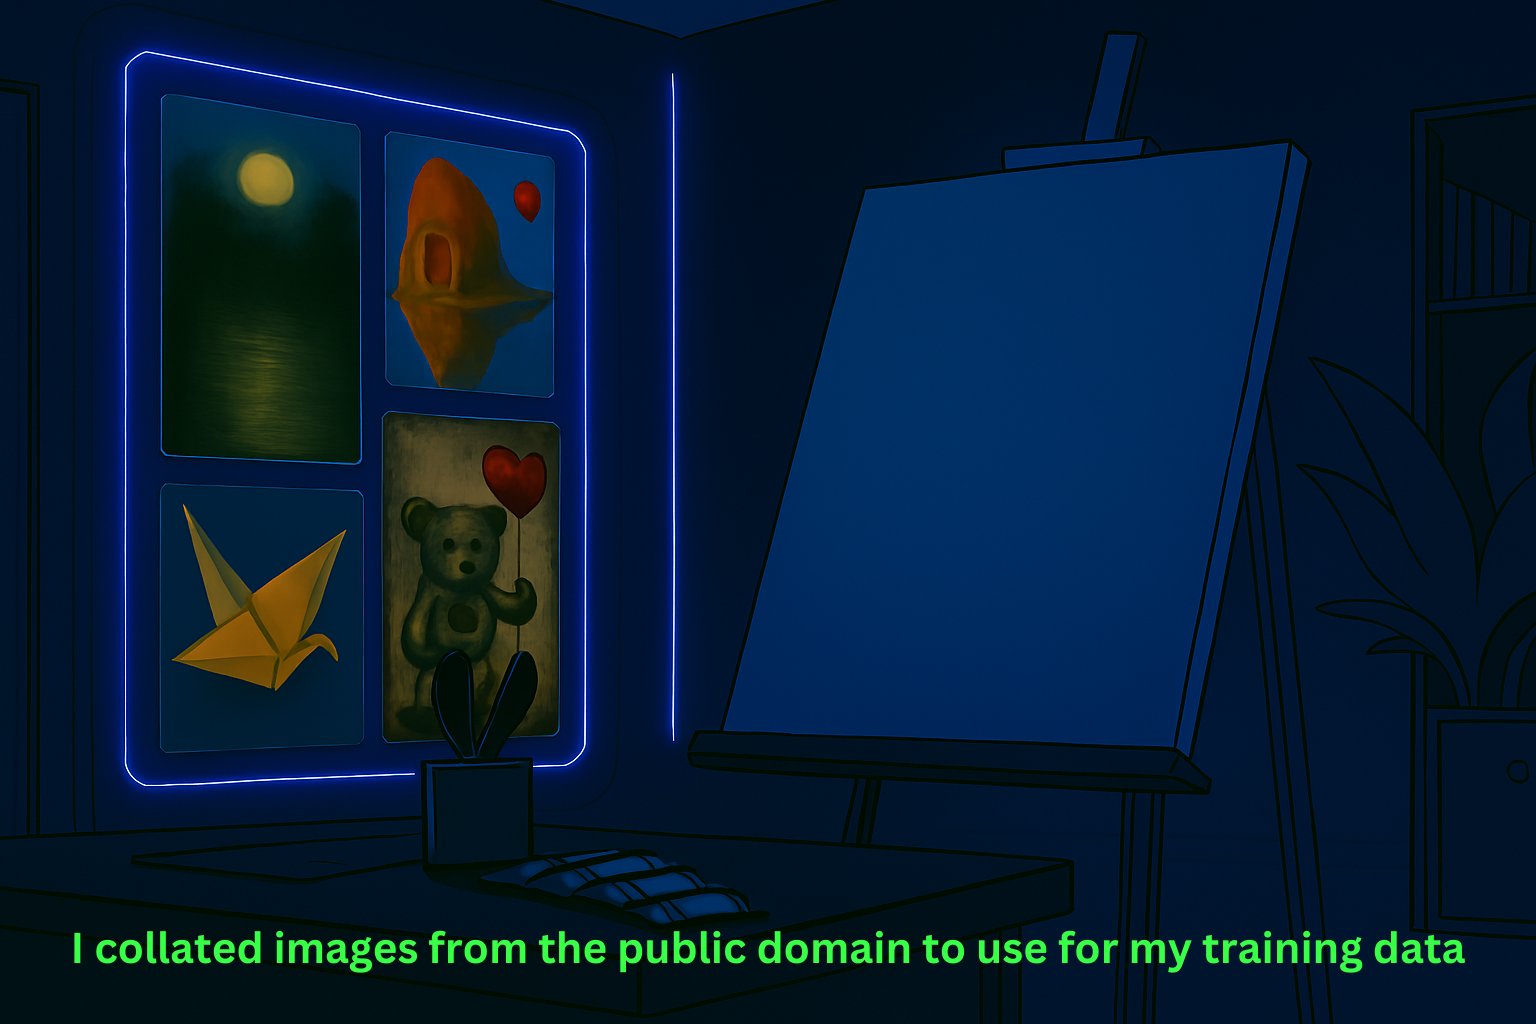
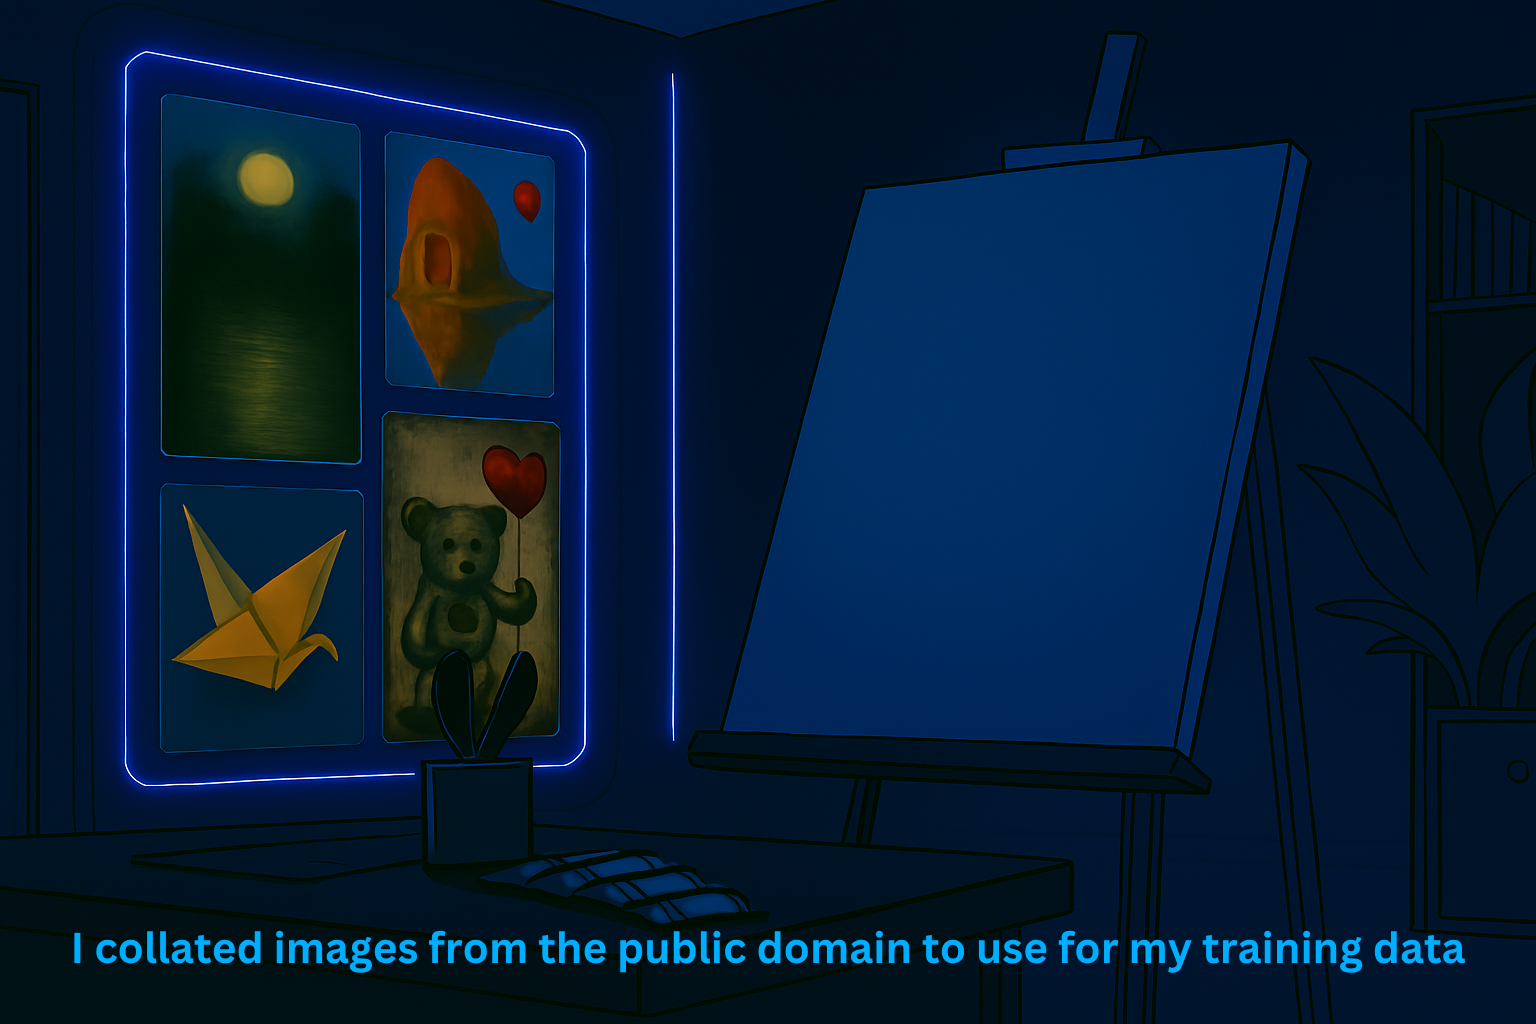
Changed the styles and colours to meet the clients preferrences

Changed region(s): [[0.0312, 0.9062, 0.9688, 0.9688]]

diff --git a/src/main/resources/css/textarea.css b/src/main/resources/css/textarea.css
@@ -2,9 +2,9 @@
   -fx-control-inner-background: black;
   /* background inside the text area */
   -fx-background-color: black;
-  -fx-border-color: #3aff47;
+  -fx-border-color: #00aeff;
   -fx-border-width: 2px;
-  -fx-text-fill: #3aff47;
+  -fx-text-fill: #00aeff;
   /* text color */
 }
 
@@ -21,7 +21,7 @@
 
 .text-area .scroll-bar:vertical .thumb,
 .text-area .scroll-bar:horizontal .thumb {
-  -fx-background-color: #3aff47;
+  -fx-background-color: #00aeff;
   /* draggable part */
   -fx-background-radius: 5;
 }
@@ -38,6 +38,6 @@
 .text-area .scroll-bar:vertical .decrement-arrow,
 .text-area .scroll-bar:horizontal .increment-arrow,
 .text-area .scroll-bar:horizontal .decrement-arrow {
-  -fx-background-color: #3aff47;
+  -fx-background-color: #00aeff;
   /* arrow color if you keep them */
 }

diff --git a/src/main/java/nz/ac/auckland/se206/controllers/VerdictController.java b/src/main/java/nz/ac/auckland/se206/controllers/VerdictController.java
@@ -2,7 +2,6 @@ package nz.ac.auckland.se206.controllers;
 
 import java.util.HashMap;
 import java.util.Map;
-
 import javafx.application.Platform;
 import javafx.event.ActionEvent;
 import javafx.fxml.FXML;
@@ -28,11 +27,11 @@ public class VerdictController {
     selectedVerdict = verdictMap.get(btnClicked); // "Guilty" or "Not Guilty"
 
     // Reset both buttons to default color
-    btnGuilty.setStyle("-fx-background-color: #3aff47;");
-    btnNotGuilty.setStyle("-fx-background-color: #3aff47;");
+    btnGuilty.setStyle("-fx-background-color: #00aeff;");
+    btnNotGuilty.setStyle("-fx-background-color: #00aeff;");
 
     // Highlight the clicked button
-    btnClicked.setStyle("-fx-background-color: #207c26ff;"); // change to any highlight color
+    btnClicked.setStyle("-fx-background-color: #0050a6ff;"); // change to any highlight color
   }
 
   @FXML
@@ -79,7 +78,8 @@ public class VerdictController {
         new Thread(
             () -> {
               timer.count();
-              Platform.runLater(()-> onBtnSendClicked(new ActionEvent())); // Auto-submit when timer ends
+              Platform.runLater(
+                  () -> onBtnSendClicked(new ActionEvent())); // Auto-submit when timer ends
             });
     timerThread.start();
   }

diff --git a/src/main/java/nz/ac/auckland/se206/controllers/OutcomeController.java b/src/main/java/nz/ac/auckland/se206/controllers/OutcomeController.java
@@ -27,11 +27,11 @@ public class OutcomeController {
     if (verdict) {
       verdictText.setText("Correct Verdict");
       verdictMark.setText("✓");
-      txtAiRationaleText.setStyle("-fx-fill: #3aff47; -fx-font-size: 20px;");
+      txtAiRationaleText.setStyle("-fx-fill: #00aeff; -fx-font-size: 20px;");
     } else {
       verdictText.setText("Incorrect Verdict");
       verdictMark.setText("X");
-      txtAiRationaleText.setStyle("-fx-fill: #3aff47; -fx-font-size: 20px;");
+      txtAiRationaleText.setStyle("-fx-fill: #00aeff; -fx-font-size: 20px;");
     }
 
     // Call LLM to evaluate rationale and set TextArea

diff --git a/src/main/java/nz/ac/auckland/se206/BubbleDragUtil.java b/src/main/java/nz/ac/auckland/se206/BubbleDragUtil.java
@@ -29,7 +29,7 @@ public class BubbleDragUtil {
     Label tooltipLabel = new Label(tooltipText);
     tooltipLabel.setStyle(
         "-fx-background-color: black; "
-            + "-fx-text-fill: #3aff47; "
+            + "-fx-text-fill: #00aeff; "
             + "-fx-font-size: 12px; "
             + "-fx-padding: 6 8 6 8;");
     popup.getContent().add(tooltipLabel);
